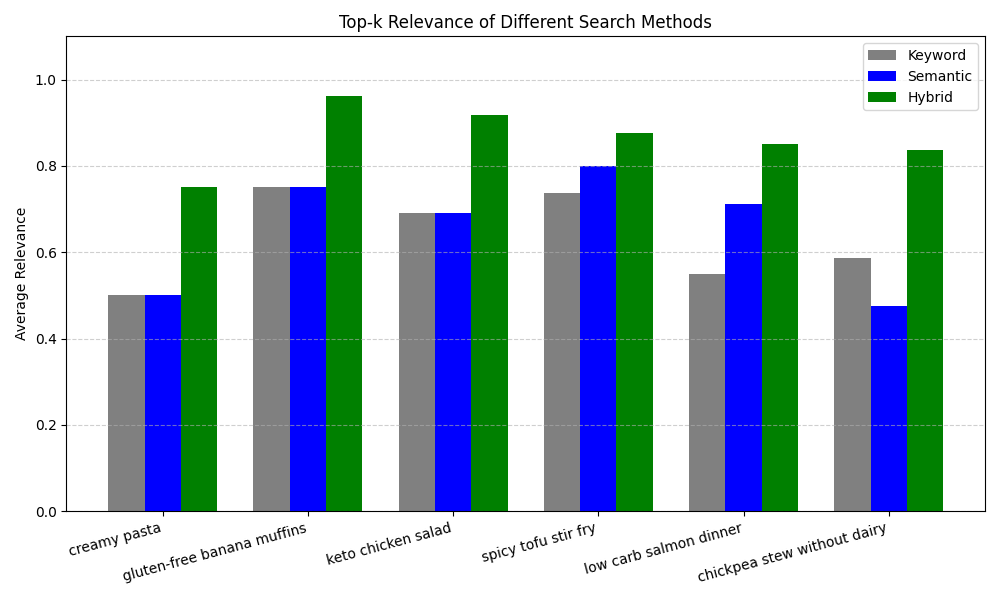
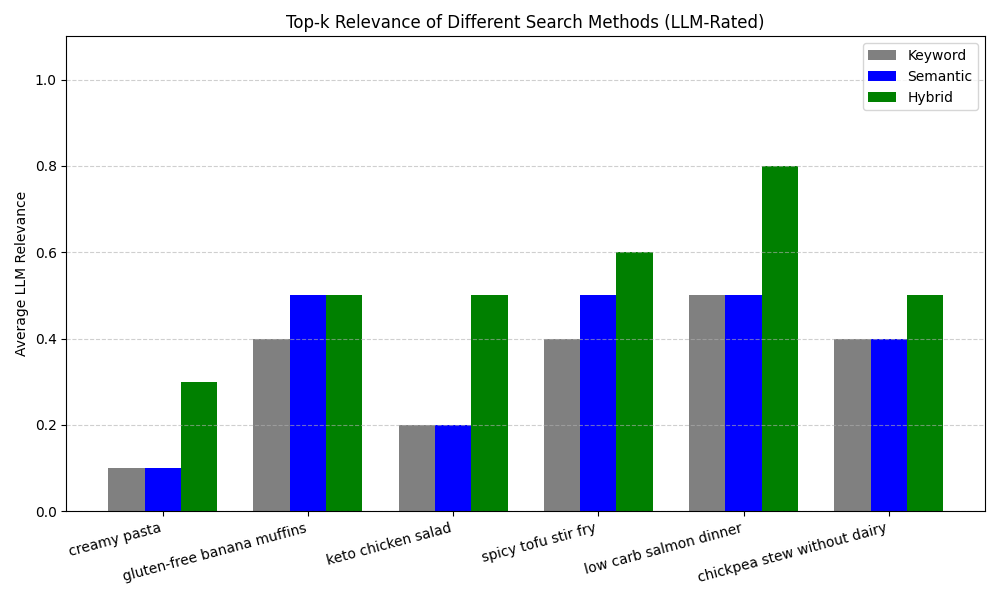
ingredient experiment

diff --git a/backend/compare_search.py b/backend/compare_search.py
@@ -1,13 +1,13 @@
-import matplotlib.pyplot as plt
-import numpy as np
-from pathlib import Path
-import re
-import argparse
-
+from openai_eval import rate_with_llm_binary
 from hybrid_search import (
     load_data, annotate_diets, load_indices,
     hybrid_search, semantic_search, keyword_search
 )
+import matplotlib.pyplot as plt
+import numpy as np
+from pathlib import Path
+import argparse
+import sys
 
 
 QUERY_CASES = [
@@ -19,7 +19,7 @@ QUERY_CASES = [
     },
     {
         "query": "gluten-free banana muffins",
-        "have": ["banana"],
+        "have": None,
         "avoid": ["wheat", "flour"],
         "restrictions": "gluten_free"
     },
@@ -50,55 +50,18 @@ QUERY_CASES = [
 ]
 
 
-def compute_relevance(row, case):
-    score = 0.0
-    total_weight = 0.0
-
-    ingredients = [i.lower() for i in row['high_level_ingredients']]
-    ingredient_text = " ".join(ingredients)
-    combined_text = f"{row['name']} {row.get('summary', '')} {ingredient_text}".lower(
-    )
-
-    if case['restrictions']:
-        total_weight += 1.0
-        if row.get(f"is_{case['restrictions']}", False):
-            score += 1.0
-
-    if case['avoid']:
-        total_weight += 1.0
-        avoid_hits = sum(1 for a in case['avoid'] if a in ingredient_text)
-        if avoid_hits == 0:
-            score += 1.0
-        else:
-            penalty = avoid_hits / len(case['avoid'])
-            score += max(0, 1.0 - penalty)
-
-    if case['have']:
-        total_weight += 1.0
-        have_hits = sum(1 for h in case['have'] if h in ingredient_text)
-        score += have_hits / len(case['have'])
-
-    query_tokens = set(re.findall(r'\w+', case['query'].lower()))
-    total_weight += 1.0
-    hits = sum(1 for token in query_tokens if token in combined_text)
-    score += hits / len(query_tokens) if query_tokens else 0
-
-    return round(score / total_weight, 3) if total_weight > 0 else 0.0
-
-
 def main():
     parser = argparse.ArgumentParser()
-    parser.add_argument('--data', type=Path, default=Path("data/final_df.csv"))
+    parser.add_argument('--data', type=Path,
+                        default=Path("backend/data/final_df.csv"))
     parser.add_argument('--top_k', type=int, default=5)
+    parser.add_argument('--alpha', type=float, default=0.5)
     parser.add_argument('--out', type=Path,
                         default=Path("method_comparison.png"))
-    parser.add_argument('--alpha', type=float, default=0.5,
-                        help="Hybrid weighting")
     args = parser.parse_args()
 
     df = load_data(args.data)
     df = annotate_diets(df)
-
     model_dir = Path(__file__).resolve().parent / 'models'
     model, sem_idx, doc_tokens = load_indices(model_dir)
 
@@ -112,22 +75,31 @@ def main():
         avoid = case.get("avoid")
         restriction = case.get("restrictions")
 
+        # Keyword relevance
         kw_res = keyword_search(q, doc_tokens, df, args.top_k)
-        kw_score = np.mean([compute_relevance(r, case)
-                           for _, r in kw_res.iterrows()])
+        kw_ratings = rate_with_llm_binary(q, have, avoid, restriction, kw_res)
+        kw_score = np.mean([kw_ratings.get(name, 0.0)
+                           for name in kw_res['name']])
         avg_keyword_scores.append(kw_score)
 
+        # Semantic relevance
         sem_res = semantic_search(q, model, sem_idx, df, args.top_k)
-        sem_score = np.mean([compute_relevance(r, case)
-                            for _, r in sem_res.iterrows()])
+        sem_ratings = rate_with_llm_binary(
+            q, have, avoid, restriction, sem_res)
+        sem_score = np.mean([sem_ratings.get(name, 0.0)
+                            for name in sem_res['name']])
         avg_semantic_scores.append(sem_score)
 
-        hyb_res = hybrid_search(q, model, sem_idx, doc_tokens,
-                                df, args.top_k, args.alpha, have, avoid, restriction)
-        hyb_score = np.mean([compute_relevance(r, case)
-                            for _, r in hyb_res.iterrows()])
+        # Hybrid relevance
+        hyb_res = hybrid_search(q, model, sem_idx, doc_tokens, df, args.top_k,
+                                args.alpha, have, avoid, restriction)
+        hyb_ratings = rate_with_llm_binary(
+            q, have, avoid, restriction, hyb_res)
+        hyb_score = np.mean([hyb_ratings.get(name, 0.0)
+                            for name in hyb_res['name']])
         avg_hybrid_scores.append(hyb_score)
 
+    # Plotting
     x = np.arange(len(QUERY_CASES))
     width = 0.25
 
@@ -142,8 +114,8 @@ def main():
     plt.xticks(x, [case["query"]
                for case in QUERY_CASES], rotation=15, ha='right')
     plt.ylim(0, 1.1)
-    plt.ylabel("Average Relevance")
-    plt.title("Top-k Relevance of Different Search Methods")
+    plt.ylabel("Average LLM Relevance")
+    plt.title("Top-k Relevance of Different Search Methods (LLM-Rated)")
     plt.legend()
     plt.grid(axis='y', linestyle='--', alpha=0.6)
     plt.tight_layout()

diff --git a/backend/ingredient_test.py b/backend/ingredient_test.py
@@ -1,0 +1,102 @@
+from openai_eval import rate_with_llm_binary
+from hybrid_search import (
+    load_data, annotate_diets, load_indices, hybrid_search
+)
+import sys
+import matplotlib.pyplot as plt
+import numpy as np
+from pathlib import Path
+import argparse
+
+
+QUERY_CASES = [
+    {
+        "query": "chicken salad with creamy dressing and vegetables",
+        "have": None,
+        "avoid": None,
+        "restrictions": None,
+        "label": "query only"
+    },
+    {
+        "query": "chicken salad with creamy dressing and vegetables",
+        "have": ["chicken", "lettuce", "mayonnaise"],
+        "avoid": None,
+        "restrictions": None,
+        "label": "query + 3 core ingredients"
+    },
+    {
+        "query": "chicken salad with creamy dressing and vegetables",
+        "have": ["chicken", "lettuce", "mayonnaise", "celery", "onion"],
+        "avoid": None,
+        "restrictions": None,
+        "label": "query + 5 extended ingredients"
+    },
+    {
+        "query": "chicken salad with creamy dressing and vegetables",
+        "have": ["chicken", "lettuce", "mayonnaise", "celery", "onion", "mustard", "vinegar", "dill", "parsley", "lemon juice"],
+        "avoid": None,
+        "restrictions": None,
+        "label": "query + 10 full ingredients"
+    },
+    {
+        "query": "chicken salad with creamy dressing and vegetables",
+        "have": None,
+        "avoid": ["mayonnaise", "apples", "mint"],
+        "restrictions": None,
+        "label": "query + avoid ingredients"
+    }
+]
+
+
+def main():
+    parser = argparse.ArgumentParser()
+    parser.add_argument('--data', type=Path,
+                        default=Path("backend/data/final_df.csv"))
+    parser.add_argument('--model_dir', type=Path,
+                        default=Path("backend/models"))
+    parser.add_argument('--top_k', type=int, default=5)
+    parser.add_argument('--alpha', type=float, default=0.8)
+    parser.add_argument('--out', type=Path,
+                        default=Path("ingredient_inclusion.png"))
+    args = parser.parse_args()
+
+    df = load_data(args.data)
+    df = annotate_diets(df)
+    model, sem_idx, doc_tokens = load_indices(args.model_dir)
+
+    labels = []
+    avg_scores = []
+
+    for case in QUERY_CASES:
+        res = hybrid_search(
+            case["query"], model, sem_idx, doc_tokens,
+            df, args.top_k, args.alpha,
+            have_ingredients=case.get("have"),
+            avoid_ingredients=case.get("avoid"),
+            dietary_restriction=case.get("restrictions")
+        )
+        ratings = rate_with_llm_binary(
+            case["query"],
+            case.get("have"),
+            case.get("avoid"),
+            case.get("restrictions"),
+            res
+        )
+        res['relevance'] = res['name'].map(ratings).fillna(0).astype(float)
+        score = res['relevance'].mean()
+
+        labels.append(case["label"])
+        avg_scores.append(score)
+
+    plt.figure(figsize=(10, 6))
+    plt.bar(labels, avg_scores, color='skyblue')
+    plt.ylabel("Average LLM Relevance")
+    plt.title("Effect of Ingredient Inclusion on Relevance")
+    plt.ylim(0, 1.1)
+    plt.xticks(rotation=15, ha='right')
+    plt.tight_layout()
+    plt.savefig(args.out)
+
+
+if __name__ == "__main__":
+    main()

diff --git a/backend/openai_eval.py b/backend/openai_eval.py
@@ -23,16 +23,20 @@ def rate_with_llm_binary(query: str, have: list[str], avoid: list[str], restrict
         "0.0 - Not relevant at ALL or violates requirements\n\n"
     ]
     if have:
-        prompt.append(f"User has the following ingredients: {', '.join(have)}\n")
+        prompt.append(
+            f"User has the following ingredients: {', '.join(have)}\n")
     if avoid:
-        prompt.append(f"User wants to avoid the following ingredients: {', '.join(avoid)}\n")
+        prompt.append(
+            f"User wants to avoid the following ingredients: {', '.join(avoid)}\n")
     if restrictions:
         prompt.append(f"User has dietary restrictions: {restrictions}\n")
     prompt.append("Here are the top 5 recipes:\n")
-    
+
     for i, r in results.iterrows():
-        prompt.append(f"{i+1}. {r['name']} - Ingredients: {' '.join(r['high_level_ingredients'])}\n Description: {r['summary']}\n")
-    prompt.append("\nFor each recipe, rate relevance as 1.0, 0.5, or 0.0, formatted as a JSON list of objects with 'name' and 'rating'.\n")
+        prompt.append(
+            f"{i+1}. {r['name']} - Ingredients: {' '.join(r['high_level_ingredients'])}\n Description: {r['summary']}\n")
+    prompt.append(
+        "\nFor each recipe, rate relevance as 1.0, 0.5, or 0.0, formatted as a JSON list of objects with 'name' and 'rating'.\n")
     content = ''.join(prompt)
 
     resp = _client.chat.completions.create(
@@ -81,17 +85,20 @@ def evaluate_queries(
         alpha = case.get('alpha', 0.5)
         method = case.get('method', 'hybrid')
 
-        res = hybrid_search(q, model, sem_idx, doc_tokens, df, top_k, alpha, have, avoid, restrictions)
+        res = hybrid_search(q, model, sem_idx, doc_tokens,
+                            df, top_k, alpha, have, avoid, restrictions)
 
         # Rate with OpenAI
         ratings = rate_with_llm_binary(q, have, avoid, restrictions, res)
         res['relevance'] = res['name'].map(ratings).fillna(0).astype(float)
 
         # Print results with relevance indicators
-        print(f"\n=== Query: '{q}' | method={method} | have={have} | avoid={avoid} | restrictions={restrictions} ===")
-        
+        print(
+            f"\n=== Query: '{q}' | method={method} | have={have} | avoid={avoid} | restrictions={restrictions} ===")
+
         for i, r in res.iterrows():
-            print(f"{i+1}. {r['name']} - Ingredients: {' '.join(r['high_level_ingredients'])}\n")
+            print(
+                f"{i+1}. {r['name']} - Ingredients: {' '.join(r['high_level_ingredients'])}\n")
             relevance = r['relevance']
             indicator = "✓✓" if relevance == 1.0 else "✓" if relevance == 0.5 else "✗"
             print(f"Relevance rating: {relevance:.1f} {indicator}")
